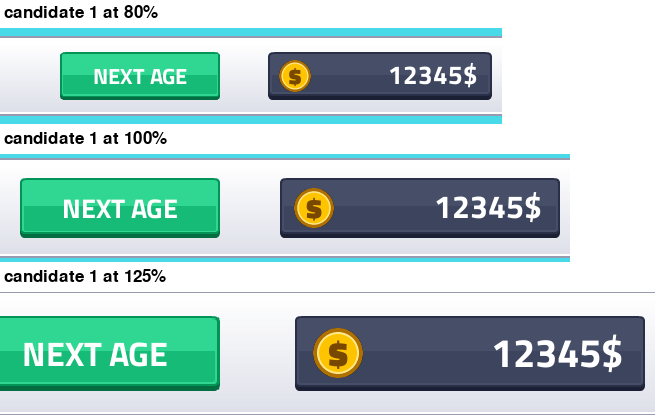
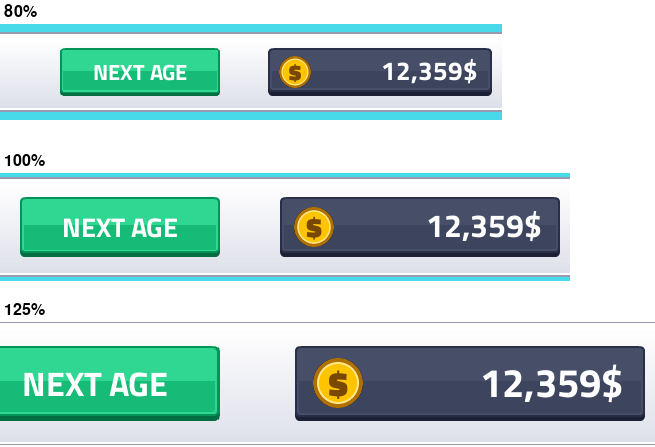
docs: Regenerate the devlog images from the current code
Floating text frames, the cash alignment at three scales and the odometer
frames and GIF now show the current look; the candidate images are captioned
as the options shown before the pick.

Changed region(s): [[0.0, 0.0, 1.0, 0.9664], [0.0, 0.8106, 0.3359, 0.9664]]

diff --git a/docs/devlog/2026-11-10-cash-display-and-floating-text.md b/docs/devlog/2026-11-10-cash-display-and-floating-text.md
@@ -18,6 +18,8 @@ top and bottom line. The amount is right-aligned inside the plate.
 
 ![The three candidates side by side](img/48-cash-candidates.png)
 
+*Options shown before the pick (old number format, no thousands separator).*
+
 1. **Dark plate, coin, white text.** The UI Pack gray button plate, darkened, with a gold coin
    drawn in code (no new asset).
 2. **Button-style yellow plate, dark text.** The yellow gloss plate, like the buttons' own style.
@@ -27,16 +29,22 @@ Ten digits still fit, in every candidate:
 
 ![Candidates with a ten-digit amount](img/48-cash-large-amount.png)
 
-Alignment is checked at every UI scale (80 to 125 percent); candidate 1 at 80, 100 and 125 percent:
+*Options shown before the pick (old number format).*
+
+Alignment is checked at every UI scale (80 to 125 percent); the chosen look (candidate 1, current
+number format) at 80, 100 and 125 percent:
 
 ![Candidate 1 at 80, 100 and 125 percent](img/48-cash-alignment-scales.png)
 
 ### Floating text (#50)
 
-Frames at 0, 300, 700 and 1100 ms: a sale (+840$) over the sold building, two payouts (+12$, +6$)
-over the buildings that paid, and a spend (-400$) falling onto the cash display.
+Frames at 0, 300, 700 and 1100 ms: a sale (+840$) over the sold building, two payouts (+120$, +60$)
+over the buildings that paid, and a spend (-400$) falling from the cash amount.
 
 ![Floating text frames](img/50-floating-text-frames.png)
+
+The current look: gains at 24 pt, the red text falling from the digits' baseline (it passes the
+screen's bottom edge, drawn here on a dark extension), and the amount rolling to its new value.
 
 Neither pygamine nor Chokepoint has a reusable helper: Chokepoint's kill text lives inside its
 kill-feedback class (battle time, camera, coin flight). The Highrise version is a small
